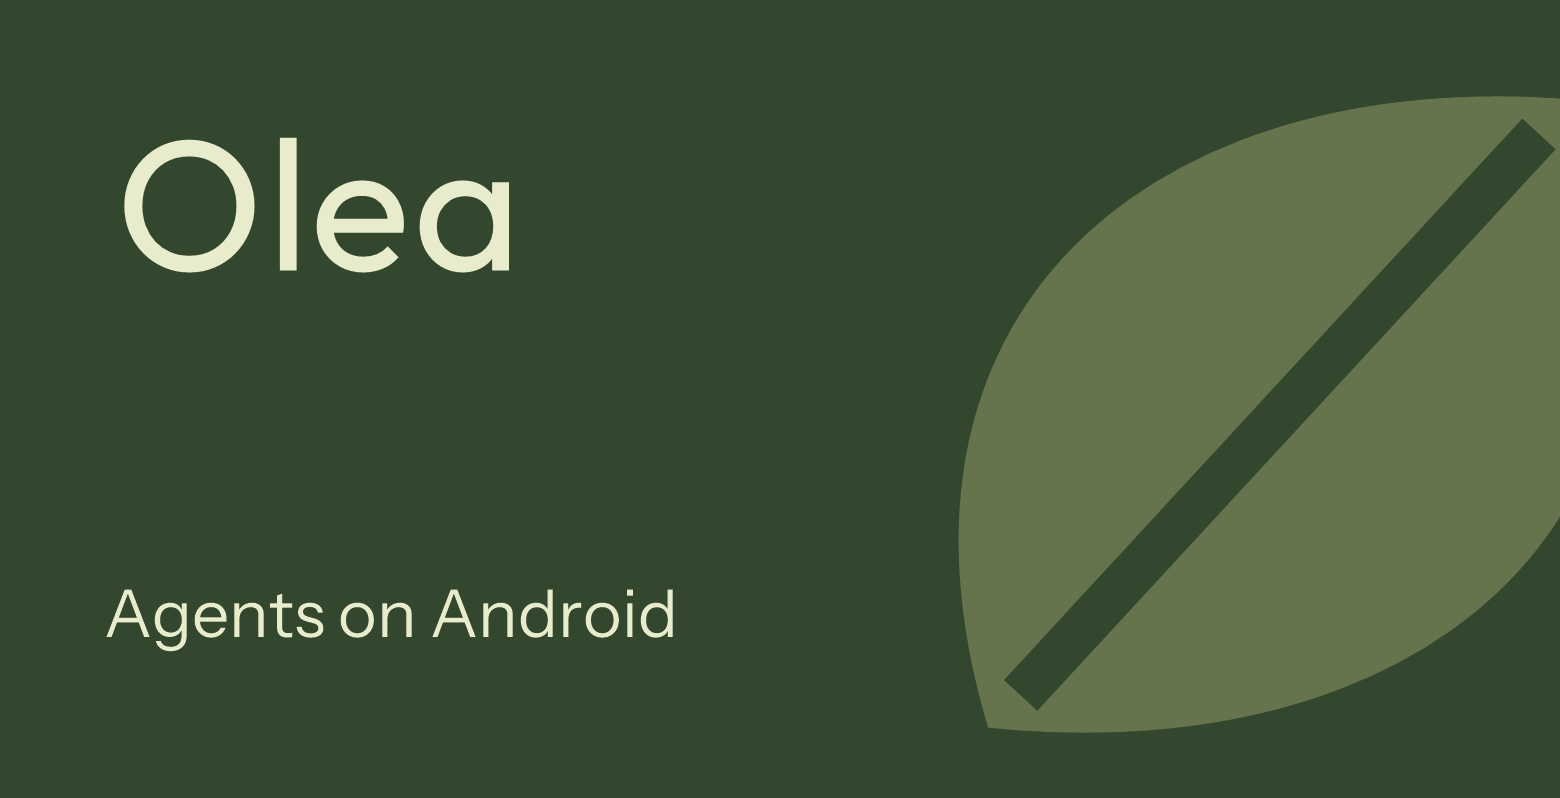
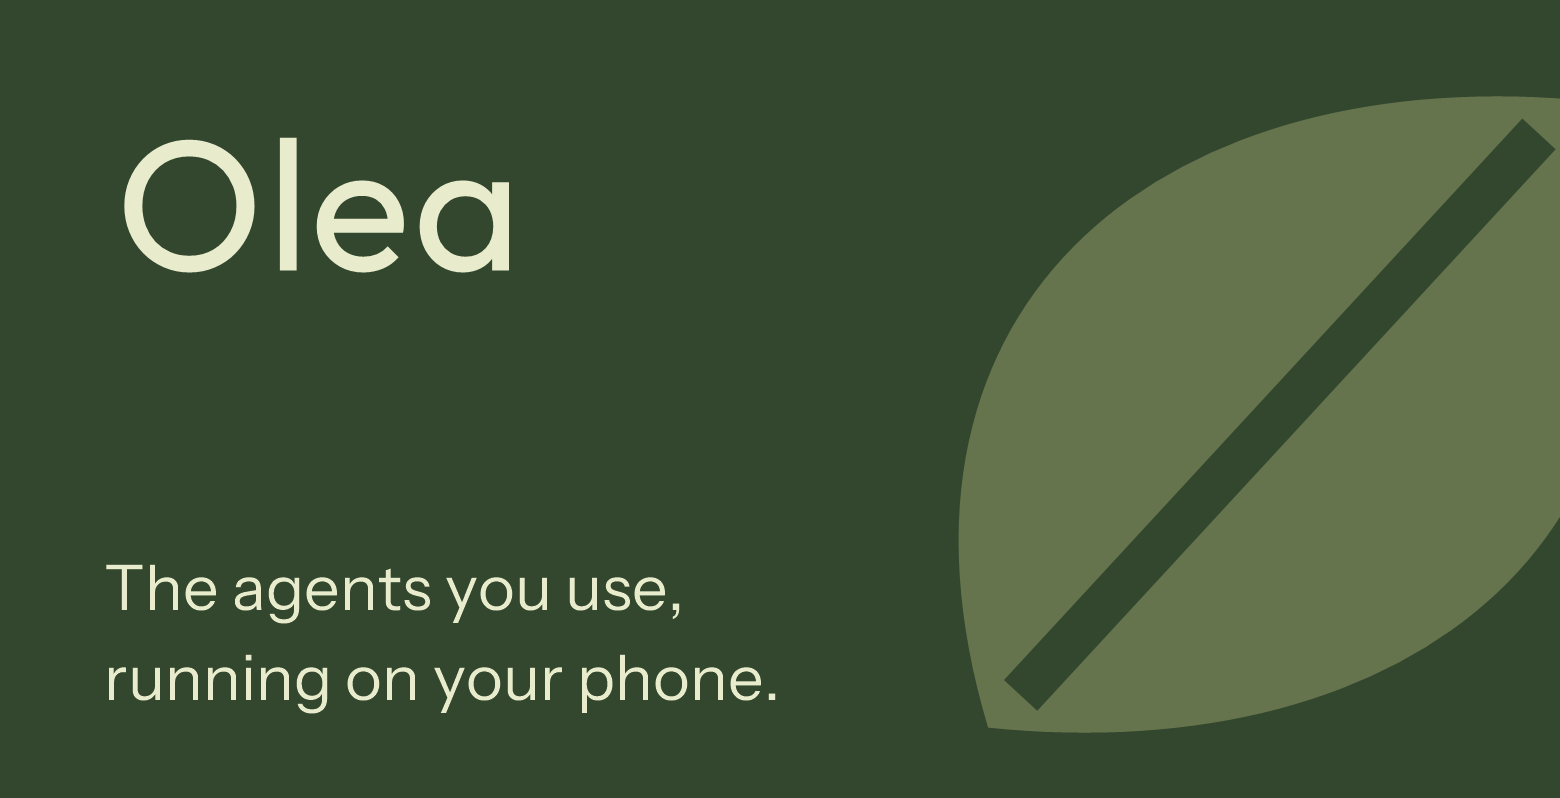
Add Seed promotional formats with approved slogan

Changed region(s): [[0.0615, 0.6917, 0.4923, 0.9023]]

diff --git a/docs/ui/branding/render-seed-series-02.md b/docs/ui/branding/render-seed-series-02.md
@@ -1,0 +1,100 @@
+# Seed promotional series renderer
+
+Original source, MIT licensed under the repository license. Reuses the selected Seed geometry and locally installed OFL fonts documented in `directions-01.md`. No network access or new dependencies.
+
+Run the fenced PowerShell source from the repository root, passing `FontRoot` as the canvas-design `canvas-fonts` directory. Requires Windows/System.Drawing. Writes the four compositions and contact sheet in this folder. Text measurement assertions reject overflowing text. Digital RGB PNG output; no print color profile or bleed is implied.
+
+```powershell
+param([Parameter(Mandatory=$true)][string]$FontRoot)
+$ErrorActionPreference = 'Stop'
+$dir = Join-Path (Get-Location) 'docs/ui/branding'
+$original = [System.IO.File]::ReadAllText((Join-Path $dir 'render-study-01.md'))
+$source = $original.Split(@('```powershell'),[System.StringSplitOptions]::None)[1].Split(@('```'),[System.StringSplitOptions]::None)[0]
+$prefix = $source.Substring(0,$source.IndexOf('$g.Clear('))
+$prefix = $prefix.Substring($prefix.IndexOf('Add-Type'))
+Invoke-Expression $prefix
+$g.Dispose(); $img.Dispose()
+$ink = '#32472D'; $pale = '#E8ECCD'; $paper = '#F5F3ED'
+function Canvas($w,$h,$bg) {
+  $script:img = [System.Drawing.Bitmap]::new($w,$h)
+  $script:g = [System.Drawing.Graphics]::FromImage($script:img)
+  $g.SmoothingMode = [System.Drawing.Drawing2D.SmoothingMode]::AntiAlias
+  $g.TextRenderingHint = [System.Drawing.Text.TextRenderingHint]::AntiAliasGridFit
+  $g.Clear([System.Drawing.ColorTranslator]::FromHtml($bg))
+}
+function Text($s,$x,$y,$size,$color,$family=$sans,$maxWidth=0) {
+  $f=[System.Drawing.Font]::new($family,[single]$size,[System.Drawing.FontStyle]::Regular,[System.Drawing.GraphicsUnit]::Pixel)
+  $m=$g.MeasureString($s,$f)
+  if($maxWidth -eq 0) { $maxWidth=$img.Width-$x }
+  if($x -lt 0 -or $y -lt 0 -or $m.Width -gt $maxWidth -or ($y+$m.Height) -gt $img.Height) {
+    $f.Dispose(); throw "Text exceeds its space: $s ($($m.Width) x $($m.Height))"
+  }
+  $b=Brush $color; $g.DrawString($s,$f,$b,[single]$x,[single]$y); $f.Dispose(); $b.Dispose()
+}
+function CenterText($s,$y,$size,$color,$family=$sans) {
+  $f=[System.Drawing.Font]::new($family,[single]$size,[System.Drawing.FontStyle]::Regular,[System.Drawing.GraphicsUnit]::Pixel)
+  $m=$g.MeasureString($s,$f); $f.Dispose()
+  Text $s (($img.Width-$m.Width)/2) $y $size $color $family
+}
+function Save($name,$w,$h) {
+  if($img.Width -ne $w -or $img.Height -ne $h) { throw "Incorrect dimensions for $name" }
+  $img.Save((Join-Path $dir $name),[System.Drawing.Imaging.ImageFormat]::Png)
+  $g.Dispose(); $img.Dispose()
+}
+# Portrait: generous vertical rhythm, complete isolated seed.
+Canvas 1600 2400 $ink
+Text 'Olea' 104 78 124 $pale $outfit
+Mark 'A' 200 265 1200 $pale $ink $pale
+Text 'The agents' 104 1510 124 $pale
+Text 'you use,' 104 1654 124 $pale
+Text 'running on' 104 1798 124 $pale
+Text 'your phone.' 104 1942 124 $pale
+Save 'seed-poster-portrait.png' 1600 2400
+# Landscape: separate text and image fields, optical crop at the right edge.
+Canvas 1920 1080 $paper
+Text 'Olea' 92 72 104 $ink $outfit
+Text 'The agents you use,' 92 486 91 $ink $sans 1010
+Text 'running on' 92 602 91 $ink $sans 1010
+Text 'your phone.' 92 718 91 $ink $sans 1010
+Rect 1180 0 740 1080 $ink
+$clip=$g.Save(); $g.SetClip([System.Drawing.Rectangle]::new(1180,0,740,1080))
+Mark 'A' 1080 -20 1200 $pale $ink $pale
+$g.Restore($clip)
+Save 'seed-poster-landscape.png' 1920 1080
+# Thin banner: a horizontal lockup with generous space between elements.
+Canvas 2400 600 $ink
+Text 'Olea' 94 178 148 $pale $outfit 460
+Text 'The agents you use,' 682 185 67 $pale $sans 1040
+Text 'running on your phone.' 682 274 67 $pale $sans 1040
+Mark 'A' 1800 0 600 $pale $ink $pale
+Save 'seed-banner-thin.png' 2400 600
+# Square: centered emblem and a balanced two-line slogan on light paper.
+Canvas 1600 1600 $paper
+CenterText 'Olea' 75 116 $ink $outfit
+Mark 'A' 345 300 910 $ink $paper $ink
+CenterText 'The agents you use,' 1215 79 $ink
+CenterText 'running on your phone.' 1324 79 $ink
+Save 'seed-promo-square.png' 1600 1600
+# Review sheet: retain each image's full aspect ratio, with neutral labels outside art.
+Canvas 1800 1450 '#E6E5DE'
+Text 'Olea / Seed' 55 32 48 $ink $outfit
+Text 'Promotional series 02' 55 100 23 $ink
+function Thumbnail($name,$x,$y,$w,$h) {
+  $asset=[System.Drawing.Bitmap]::new((Join-Path $dir $name))
+  if([Math]::Abs(($asset.Width/$asset.Height)-($w/$h)) -gt 0.001) { throw "Distorted preview: $name" }
+  $g.InterpolationMode=[System.Drawing.Drawing2D.InterpolationMode]::HighQualityBicubic
+  $g.DrawImage($asset,[System.Drawing.Rectangle]::new($x,$y,$w,$h)); $asset.Dispose()
+}
+Text 'Portrait / 2:3' 55 163 21 $ink
+Thumbnail 'seed-poster-portrait.png' 55 205 600 900
+Text 'Landscape / 16:9' 710 163 21 $ink
+Thumbnail 'seed-poster-landscape.png' 710 205 1024 576
+Text 'Square / 1:1' 710 817 21 $ink
+Thumbnail 'seed-promo-square.png' 710 859 460 460
+Text 'Thin banner / 4:1' 55 1150 21 $ink
+Thumbnail 'seed-banner-thin.png' 55 1192 600 150
+Text 'The agents you use,' 1220 997 32 $ink
+Text 'running on your phone.' 1220 1040 32 $ink
+Save 'seed-series-02.png' 1800 1450
+$fonts.Dispose()
+```

diff --git a/docs/ui/branding/seed-series-02.md b/docs/ui/branding/seed-series-02.md
@@ -1,0 +1,37 @@
+# Seed promotional series 02
+
+**USER DECISION:** The slogan is “The agents you use, running on your phone.” Source: the user's branding-session instruction, “we can change the slogan to” followed by that exact wording.
+
+**USER DECISION:** Create at least a portrait poster, landscape poster, thin landscape banner and square image. Different compositions may share the same visual language. Source: the user's request for additional promotional formats in the same message.
+
+## Visual direction
+
+**AGENT PLAN:** Extend the selected Seed identity through scale, placement and the balance of pale and deep olive. Preserve the original leaf contour and diagonal seam. The seed is the visual signature; the compositions change around it. Careful optical spacing and the relationship of each leaf tip to the canvas edges establish continuity.
+
+Dark fields give the portrait poster and thin banner a concentrated presence. Light fields give the landscape and square images a quieter editorial character. The palette remains the selected deep olive, pale olive and warm ivory. Flat color and precisely rendered contours supply the material quality without texture or effects.
+
+Typography has two roles: Outfit for the Olea name and Instrument Sans for the slogan. The approved wording remains exact, including its comma and final period; line breaks adapt to the format. Each composition uses generous margins and deliberate line spacing. There is no added feature list, agent logo, product screenshot or performance claim.
+
+The portrait balances an isolated, monumental seed above a large left-aligned slogan. The landscape contrasts a pale text field with a dark cropped-symbol panel. The thin banner arranges the name, slogan and symbol horizontally. The square uses a centered emblem and centered slogan. This is a coordinated set of compositions rather than four crops of one image.
+
+## Files
+
+**OBSERVED:** The saved artwork uses the following pixel dimensions. These are digital RGB PNGs; physical print sizes, bleed and CMYK conversion have not been established.
+
+| Image | Dimensions | Ratio | Composition |
+| --- | --- | --- | --- |
+| [Portrait poster](seed-poster-portrait.png) | 1600 × 2400 | 2:3 | Dark field, isolated seed, large editorial slogan |
+| [Landscape poster](seed-poster-landscape.png) | 1920 × 1080 | 16:9 | Light text field and dark cropped-symbol panel |
+| [Thin landscape banner](seed-banner-thin.png) | 2400 × 600 | 4:1 | Horizontal name, slogan and symbol |
+| [Square promo](seed-promo-square.png) | 1600 × 1600 | 1:1 | Light field, centered emblem and slogan |
+| [Series overview](seed-series-02.png) | 1800 × 1450 | Review sheet | All four compositions at a glance |
+
+**OBSERVED:** The earlier [1560 × 798 banner](seed-banner.png) is updated to the approved slogan. The original comparison PNG and selected study crop remain historical artifacts with their original wording.
+
+## Source and checks
+
+**OBSERVED:** Original geometric art is reused from the selected Seed study. [The series renderer](render-seed-series-02.md) retains all drawing commands. Font sources, copyright and OFL provenance remain in [directions-01.md](directions-01.md#provenance). No third-party image material, image-generation service, external upload or paid credits are used. Original art and code use the repository MIT license.
+
+**OBSERVED:** The local renderer checks text measurements against available canvas space and output dimensions. A visual review checks the exact slogan wording, typography, margins, symbol placement and the overview. Intentional symbol cropping is confined to the landscape's right panel. These checks do not establish production printing or Android launcher readiness.
+
+**OPEN:** Layouts remain available for visual feedback. Export/install destinations outside `docs/ui/branding/` require a later user instruction. Selecting this promotional identity does not establish an application Material theme or change product scope.

diff --git a/docs/ui/branding/README.md b/docs/ui/branding/README.md
@@ -2,12 +2,29 @@
 
 **USER DECISION:** Select direction A, Seed, and save the asset set with its documentation in the repository. Source: the user's branding-session reply, “A is really great, stash this asset set in our repo. Docs can also be saved together with them if there are.”
 
-The selected identity uses a pale olive seed/leaf form with a diagonal seam on deep olive. These files preserve the selected study. They are not installed Android resources.
+The selected identity uses a pale olive seed/leaf form with a diagonal seam on deep olive. These files preserve the selected study and its promotional extensions. They are not installed Android resources.
+
+**USER DECISION:** Use the slogan “The agents you use, running on your phone.” Source: the user's follow-up branding instruction specifying that exact slogan and requesting portrait, landscape, thin-banner and square promotional images.
+
+## Promotional series
+
+See [the series overview](seed-series-02.png) and [composition notes](seed-series-02.md).
+
+| File | Dimensions | Ratio |
+| --- | --- | --- |
+| [Portrait poster](seed-poster-portrait.png) | 1600 × 2400 | 2:3 |
+| [Landscape poster](seed-poster-landscape.png) | 1920 × 1080 | 16:9 |
+| [Thin landscape banner](seed-banner-thin.png) | 2400 × 600 | 4:1 |
+| [Square promo image](seed-promo-square.png) | 1600 × 1600 | 1:1 |
+
+Each format has its own composition using the selected palette, Seed geometry and typography. [Rendering source](render-seed-series-02.md) is saved alongside the images.
+
+## Original assets
 
 | File | Purpose |
 | --- | --- |
 | [seed-icon.png](seed-icon.png) | 1024 × 1024 square icon artwork, rendered from the original geometry |
-| [seed-banner.png](seed-banner.png) | 1560 × 798 banner study, rendered at three times the comparison size |
+| [seed-banner.png](seed-banner.png) | 1560 × 798 banner, updated to the user-selected slogan |
 | [seed-study.png](seed-study.png) | Selected column from the original comparison, including circular and small-size samples |
 | [directions-01.png](directions-01.png) | Original three-direction comparison, preserved as discussion history |
 | [directions-01.md](directions-01.md) | Visual philosophies, product-copy limits, sources and font licensing |
@@ -18,6 +35,8 @@ The selected identity uses a pale olive seed/leaf form with a diagonal seam on d
 
 **OBSERVED:** The selected study uses deep olive `#32472D`, pale olive `#E8ECCD`, chartreuse `#C8DC83`, and muted olive `#65744D` for the enlarged banner motif. The wordmark uses Outfit Regular. The banner descriptor uses Instrument Sans Regular. Font provenance and licensing are recorded in [the original notes](directions-01.md#provenance).
 
-**OPEN:** “Agents on Android” remains study copy, not separately approved marketing wording. Android adaptive-icon layers, themed-icon exports and final installation destinations remain to be designed. No production UI theme decision follows from selecting this brand study.
+**OBSERVED:** The original comparison and selected study crop preserve their historical “Agents on Android” wording. Current standalone promotional images use the user-selected slogan.
+
+**OPEN:** Android adaptive-icon layers, themed-icon exports and final installation destinations remain to be designed. The promotional PNGs are digital RGB assets; physical print sizing, bleed and CMYK preparation remain open. No production UI theme decision follows from selecting this brand study.
 
 Original art and drawing source use the repository's MIT license. Fonts retain their own OFL licenses; no font binaries are bundled. Trademark similarity has not been checked.

diff --git a/docs/ui/branding/render-seed-assets.md b/docs/ui/branding/render-seed-assets.md
@@ -30,7 +30,8 @@ $g.Clear([System.Drawing.ColorTranslator]::FromHtml('#32472D'))
 $g.ScaleTransform([single]3,[single]3)
 Mark 'A' 250 -42 360 '#65744D' '#32472D' '#65744D'
 Text 'Olea' 28 28 62 '#E8ECCD' $outfit
-Text 'Agents on Android' 31 191 22 '#E8ECCD'
+Text 'The agents you use,' 31 183 21 '#E8ECCD'
+Text 'running on your phone.' 31 213 21 '#E8ECCD'
 $img.Save((Join-Path $dir 'seed-banner.png'),[System.Drawing.Imaging.ImageFormat]::Png)
 $g.Dispose(); $img.Dispose(); $fonts.Dispose()
 $comparison = [System.Drawing.Bitmap]::new((Join-Path $dir 'directions-01.png'))
